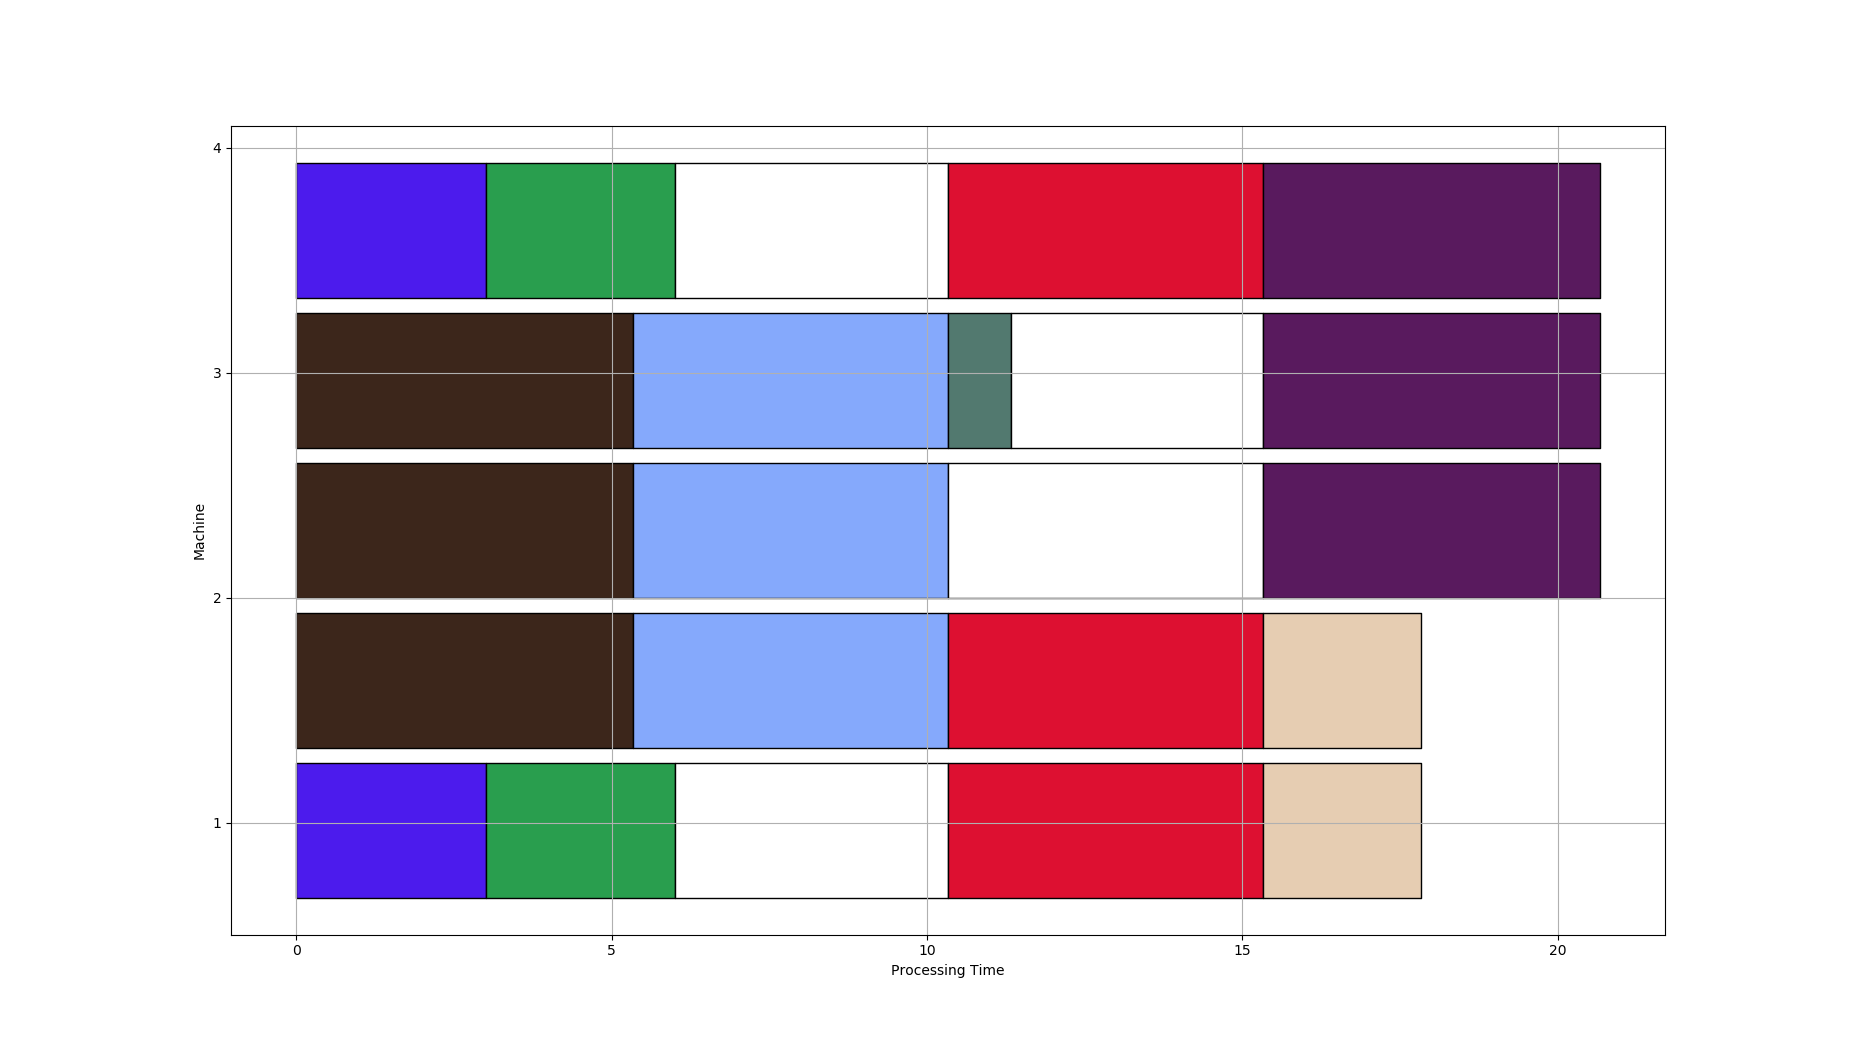
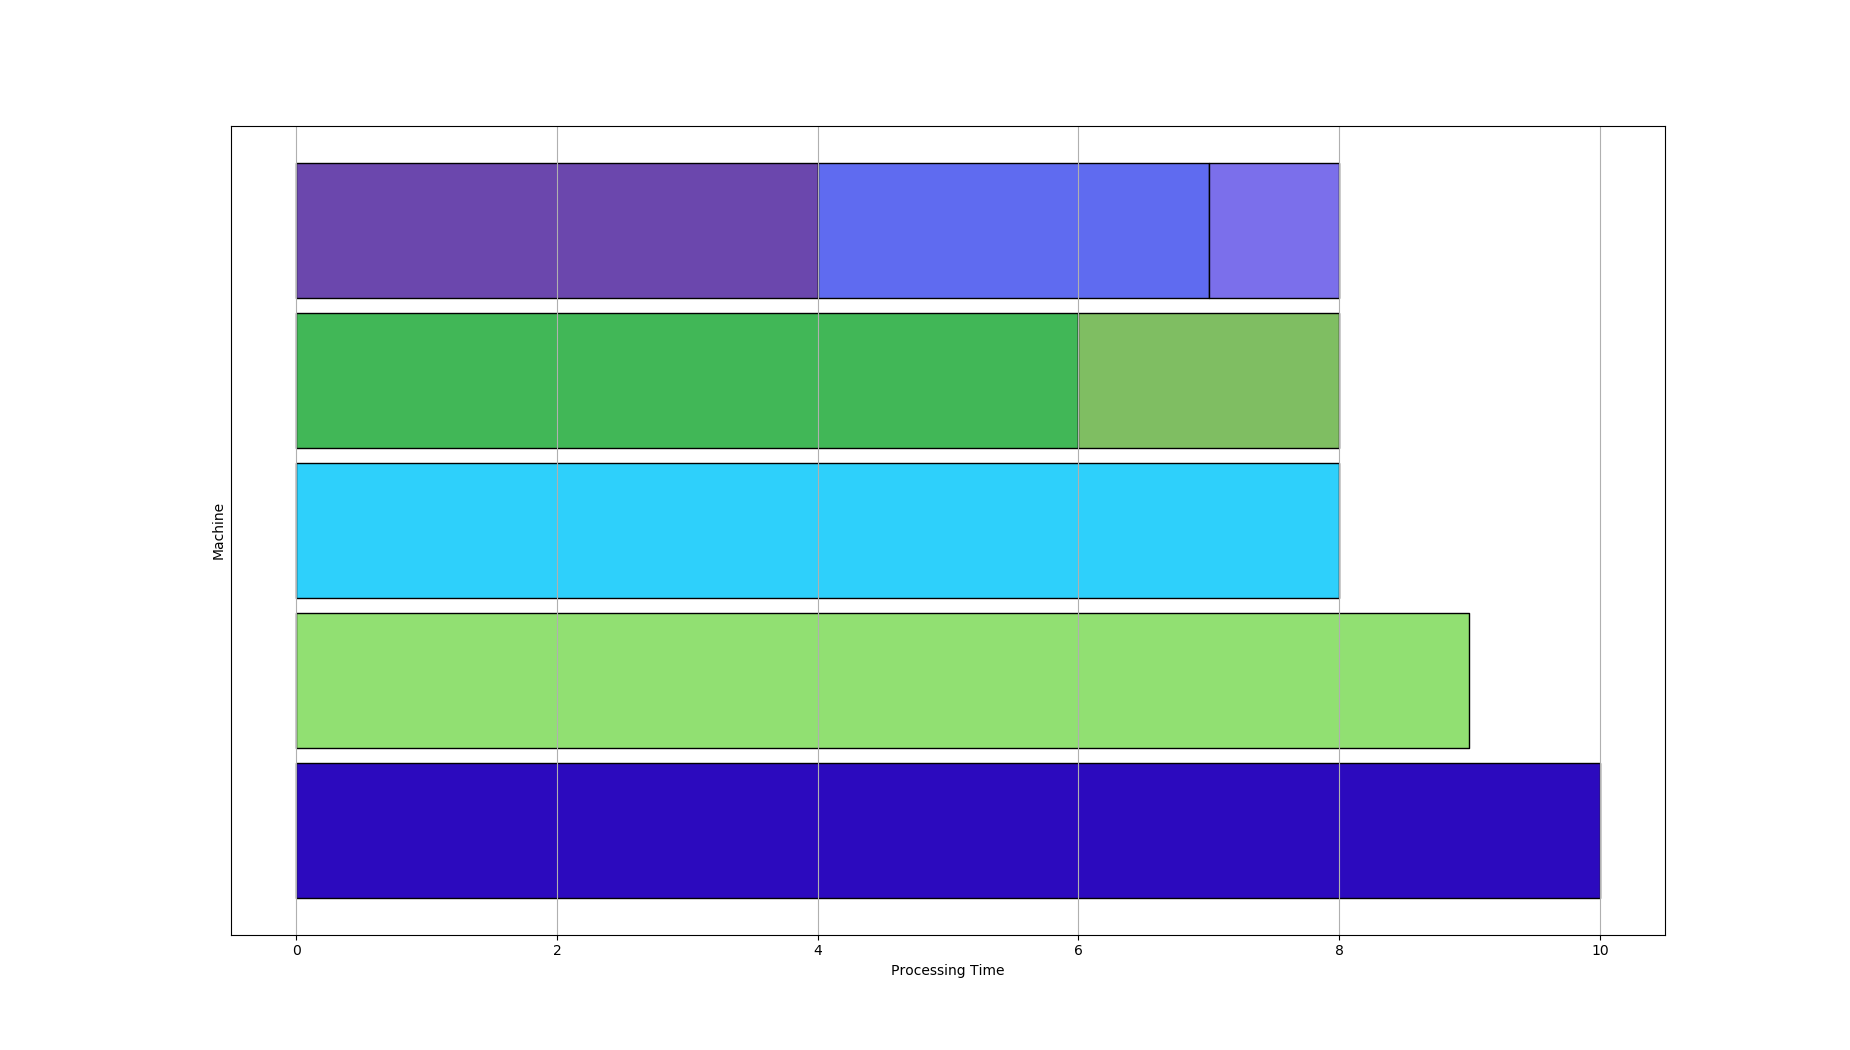
Visualization updated

diff --git a/2021-summer-research.py b/2021-summer-research.py
@@ -58,15 +58,7 @@ def visualization(machines, jobs):
                     previous += (float(machines[i][j][0]))
         previous = 0
 
-
-#     for i in range (len(machines)):
-#         for j in range (1,len(machines[i])):
-#             gnt.broken_barh([(previous, machines[i][j])], ((i+1)*10, 9), facecolors =(color[counter]), edgecolor = "black")
-#             previous = machines[i][j]
-#             print((i+1)*10)
-#             print(j)
-#             counter += 1
-#         previous = 0
+    plt.yticks([])
 
     fig.set_size_inches(18.5, 10.5)
     plt.savefig("gantt2.png")
@@ -147,7 +139,7 @@ def main(m, nj):
     for i in range(nj):
         jobs.append([random.randint(1,10)])
 
-    makespan = SET(machines, jobs, 1)
+    makespan = LPT(machines, jobs)
     print(jobs)
     for i in machines:
         print(i)
